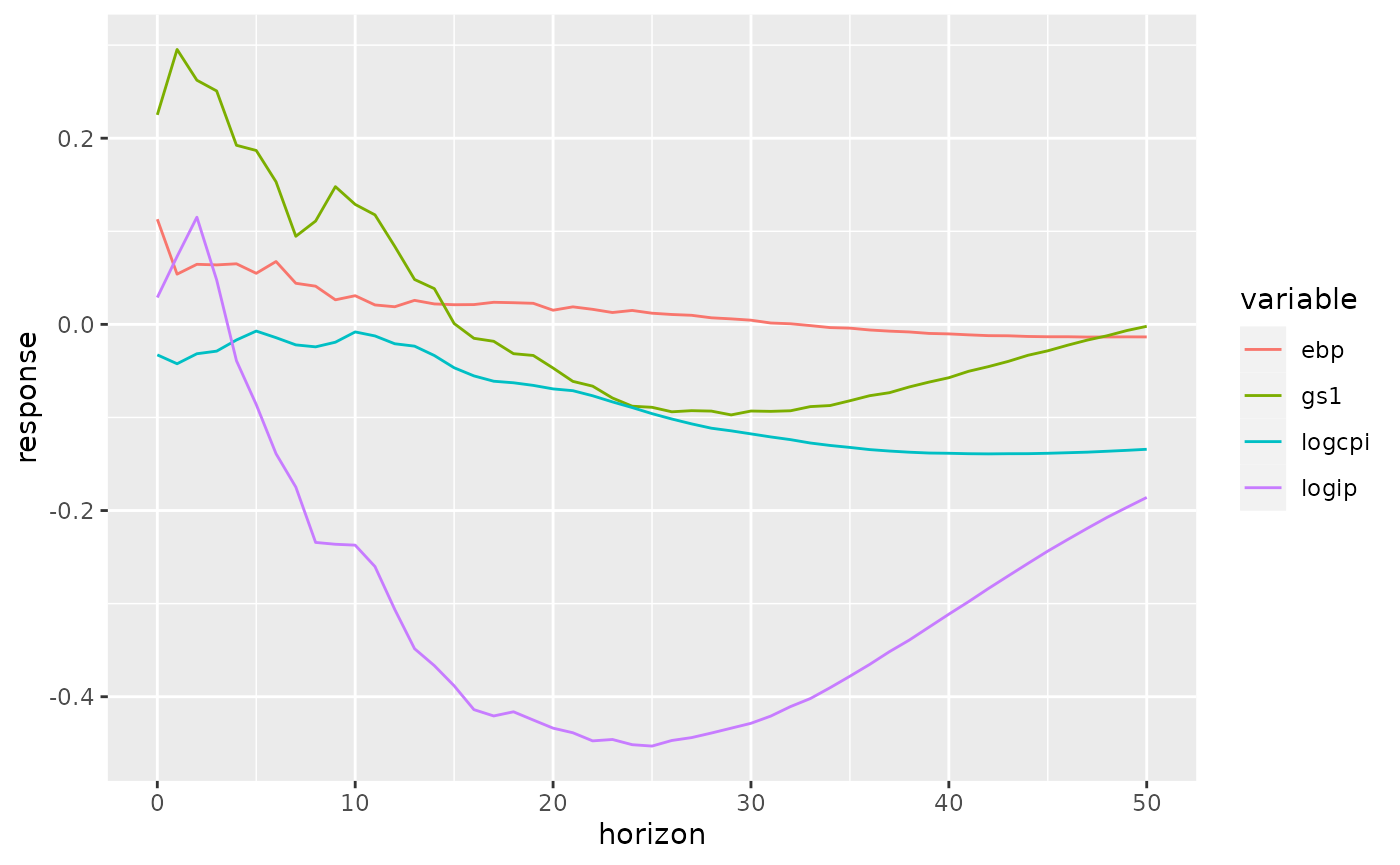
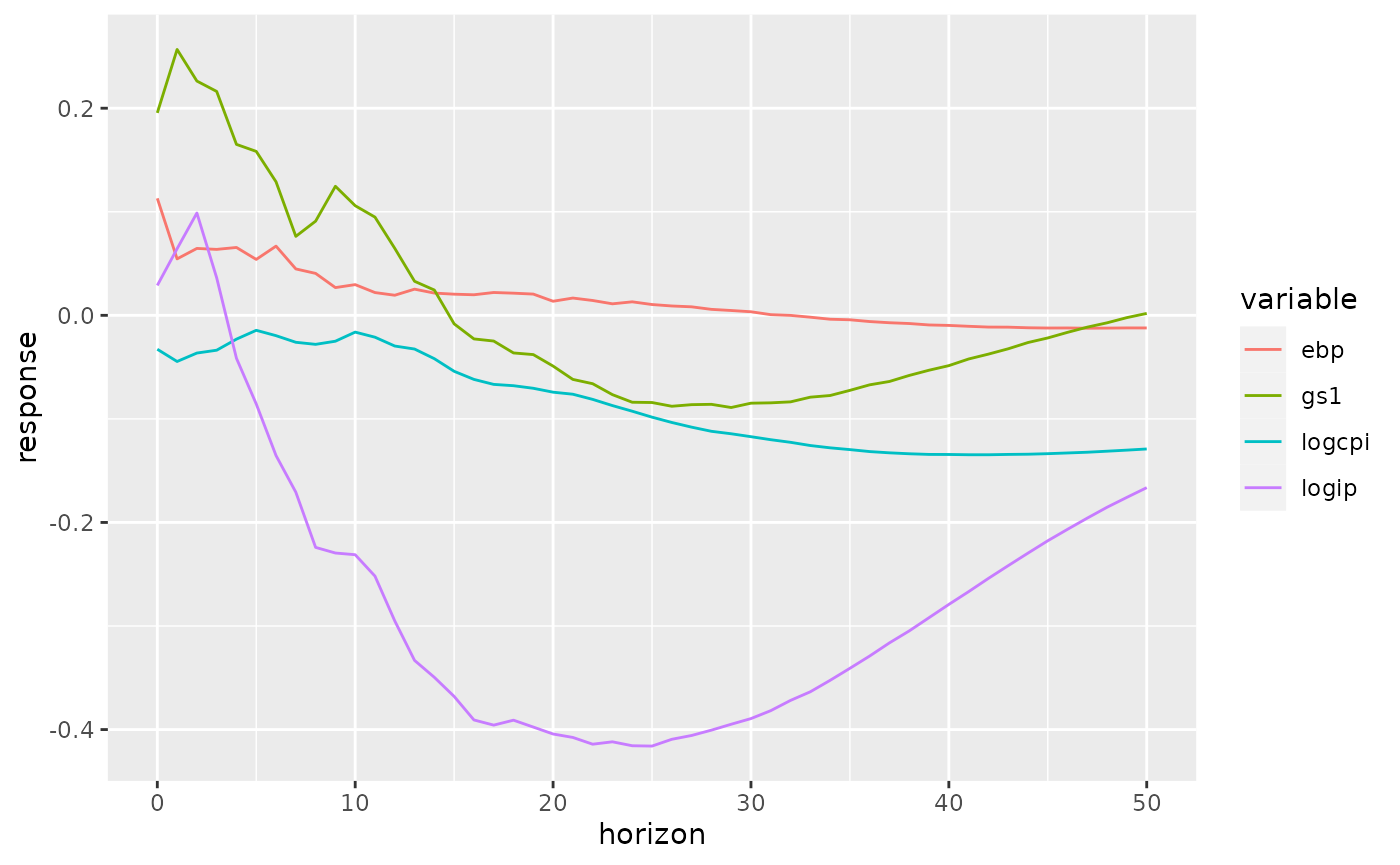
Built site for varexternalinstrument: 0.1.1@dc38e4d

diff --git a/index.html b/index.html
@@ -33,7 +33,7 @@
       </button>
       <span class="navbar-brand">
         <a class="navbar-link" href="index.html">varexternalinstrument</a>
-        <span class="version label label-default" data-toggle="tooltip" data-placement="bottom" title="">0.1.0</span>
+        <span class="version label label-default" data-toggle="tooltip" data-placement="bottom" title="">0.1.1</span>
       </span>
     </div>
 
@@ -68,7 +68,7 @@
 <h2 id="installation">Installation<a class="anchor" aria-label="anchor" href="#installation"></a>
 </h2>
 <p>Install the latest released version of the package using the R <code>remotes</code> package:</p>
-<pre><code><span><span class="fu">remotes</span><span class="fu">::</span><span class="fu"><a href="https://remotes.r-lib.org/reference/install_github.html" class="external-link">install_github</a></span><span class="op">(</span><span class="st">"angusmoore/varexternalinstrument"</span>, ref <span class="op">=</span> <span class="st">"v0.1.0"</span><span class="op">)</span></span></code></pre>
+<pre><code><span><span class="fu">remotes</span><span class="fu">::</span><span class="fu"><a href="https://remotes.r-lib.org/reference/install_github.html" class="external-link">install_github</a></span><span class="op">(</span><span class="st">"angusmoore/varexternalinstrument"</span>, ref <span class="op">=</span> <span class="st">"v0.1.1"</span><span class="op">)</span></span></code></pre>
 <p>Alternatively, you can install the latest development version using</p>
 <pre><code><span><span class="fu">remotes</span><span class="fu">::</span><span class="fu"><a href="https://remotes.r-lib.org/reference/install_github.html" class="external-link">install_github</a></span><span class="op">(</span><span class="st">"angusmoore/varexternalinstrument"</span><span class="op">)</span></span></code></pre>
 </div>

diff --git a/articles/varexternalinstrument.html b/articles/varexternalinstrument.html
@@ -33,7 +33,7 @@
       </button>
       <span class="navbar-brand">
         <a class="navbar-link" href="../index.html">varexternalinstrument</a>
-        <span class="version label label-default" data-toggle="tooltip" data-placement="bottom" title="">0.1.0</span>
+        <span class="version label label-default" data-toggle="tooltip" data-placement="bottom" title="">0.1.1</span>
       </span>
     </div>
 
@@ -85,7 +85,7 @@
 <span><span class="va">shockcol</span> <span class="op">&lt;-</span> <span class="fu"><a href="../reference/externalinstrument.html">externalinstrument</a></span><span class="op">(</span><span class="va">gkvar</span>, <span class="va">GKdata</span><span class="op">$</span><span class="va">ff4_tc</span>, <span class="st">"gs1"</span><span class="op">)</span></span>
 <span><span class="va">shockcol</span></span>
 <span><span class="co">#&gt;       logip      logcpi         gs1         ebp </span></span>
-<span><span class="co">#&gt;  0.02886238 -0.03275585  0.22507245  0.11296773</span></span></code></pre></div>
+<span><span class="co">#&gt;  0.02886238 -0.03275585  0.19549144  0.11296773</span></span></code></pre></div>
 <p>The result, <code>shockcol</code> contains the instaneous response of each of the variables in the VAR to a shock to <code>gs1</code> (in this case, the monetary policy indicator). This can then be used to create IRFs, etc.</p>
 <div class="section level3">
 <h3 id="creating-irfs">Creating IRFs<a class="anchor" aria-label="anchor" href="#creating-irfs"></a>

diff --git a/authors.html b/authors.html
@@ -17,7 +17,7 @@
       </button>
       <span class="navbar-brand">
         <a class="navbar-link" href="index.html">varexternalinstrument</a>
-        <span class="version label label-default" data-toggle="tooltip" data-placement="bottom" title="">0.1.0</span>
+        <span class="version label label-default" data-toggle="tooltip" data-placement="bottom" title="">0.1.1</span>
       </span>
     </div>
 
@@ -57,13 +57,13 @@
 
     <p>Moore A (2022).
 <em>varexternalinstrument: Implements the external instrument identification method from Gertler Karadi (and others) for the R vars package</em>.
-R package version 0.1.0. 
+R package version 0.1.1. 
 </p>
     <pre>@Manual{,
   title = {varexternalinstrument: Implements the external instrument identification method from Gertler Karadi (and others) for the R vars package},
   author = {Angus Moore},
   year = {2022},
-  note = {R package version 0.1.0},
+  note = {R package version 0.1.1},
 }</pre>
 
   </div>

diff --git a/articles/index.html b/articles/index.html
@@ -17,7 +17,7 @@
       </button>
       <span class="navbar-brand">
         <a class="navbar-link" href="../index.html">varexternalinstrument</a>
-        <span class="version label label-default" data-toggle="tooltip" data-placement="bottom" title="">0.1.0</span>
+        <span class="version label label-default" data-toggle="tooltip" data-placement="bottom" title="">0.1.1</span>
       </span>
     </div>
 

diff --git a/reference/GKdata.html b/reference/GKdata.html
@@ -17,7 +17,7 @@
       </button>
       <span class="navbar-brand">
         <a class="navbar-link" href="../index.html">varexternalinstrument</a>
-        <span class="version label label-default" data-toggle="tooltip" data-placement="bottom" title="">0.1.0</span>
+        <span class="version label label-default" data-toggle="tooltip" data-placement="bottom" title="">0.1.1</span>
       </span>
     </div>
 

diff --git a/reference/externalinstrument.html b/reference/externalinstrument.html
@@ -17,7 +17,7 @@
       </button>
       <span class="navbar-brand">
         <a class="navbar-link" href="../index.html">varexternalinstrument</a>
-        <span class="version label label-default" data-toggle="tooltip" data-placement="bottom" title="">0.1.0</span>
+        <span class="version label label-default" data-toggle="tooltip" data-placement="bottom" title="">0.1.1</span>
       </span>
     </div>
 

diff --git a/reference/index.html b/reference/index.html
@@ -17,7 +17,7 @@
       </button>
       <span class="navbar-brand">
         <a class="navbar-link" href="../index.html">varexternalinstrument</a>
-        <span class="version label label-default" data-toggle="tooltip" data-placement="bottom" title="">0.1.0</span>
+        <span class="version label label-default" data-toggle="tooltip" data-placement="bottom" title="">0.1.1</span>
       </span>
     </div>
 

diff --git a/404.html b/404.html
@@ -32,7 +32,7 @@
       </button>
       <span class="navbar-brand">
         <a class="navbar-link" href="index.html">varexternalinstrument</a>
-        <span class="version label label-default" data-toggle="tooltip" data-placement="bottom" title="">0.1.0</span>
+        <span class="version label label-default" data-toggle="tooltip" data-placement="bottom" title="">0.1.1</span>
       </span>
     </div>
 

diff --git a/LICENSE-text.html b/LICENSE-text.html
@@ -17,7 +17,7 @@
       </button>
       <span class="navbar-brand">
         <a class="navbar-link" href="index.html">varexternalinstrument</a>
-        <span class="version label label-default" data-toggle="tooltip" data-placement="bottom" title="">0.1.0</span>
+        <span class="version label label-default" data-toggle="tooltip" data-placement="bottom" title="">0.1.1</span>
       </span>
     </div>
 
